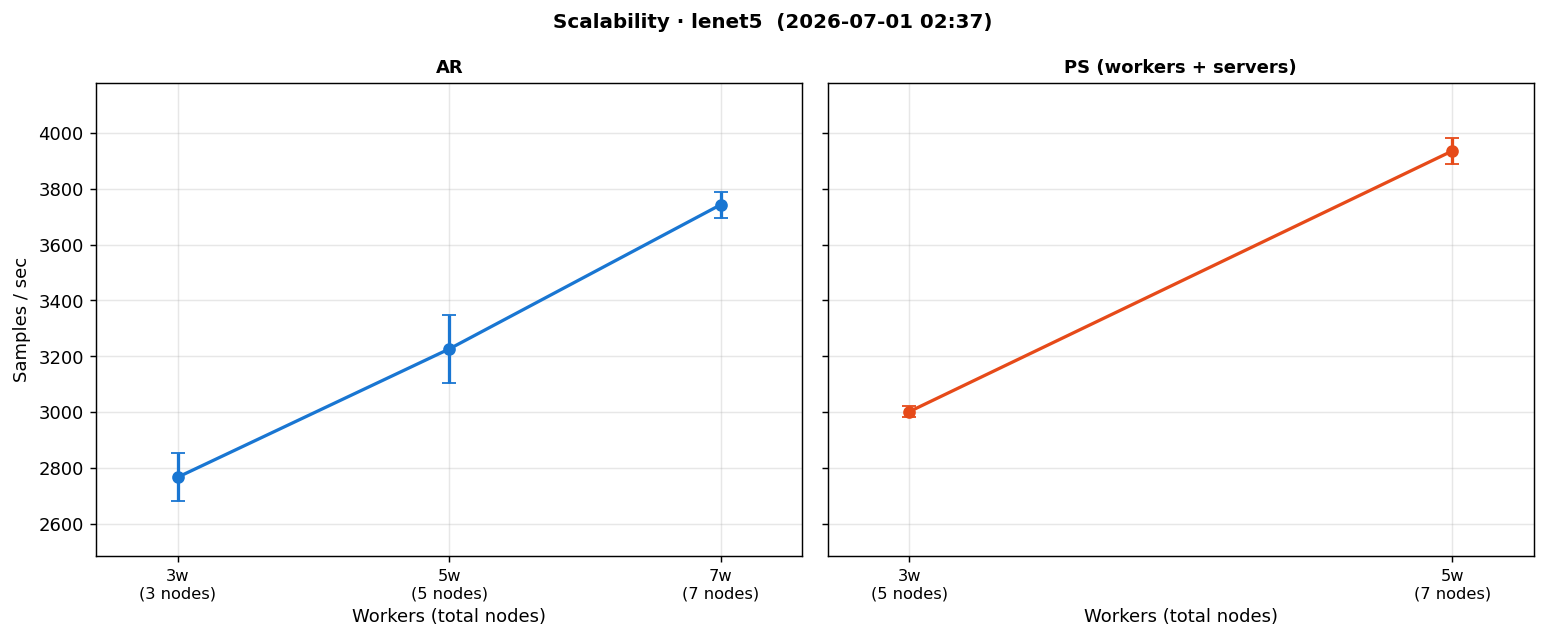
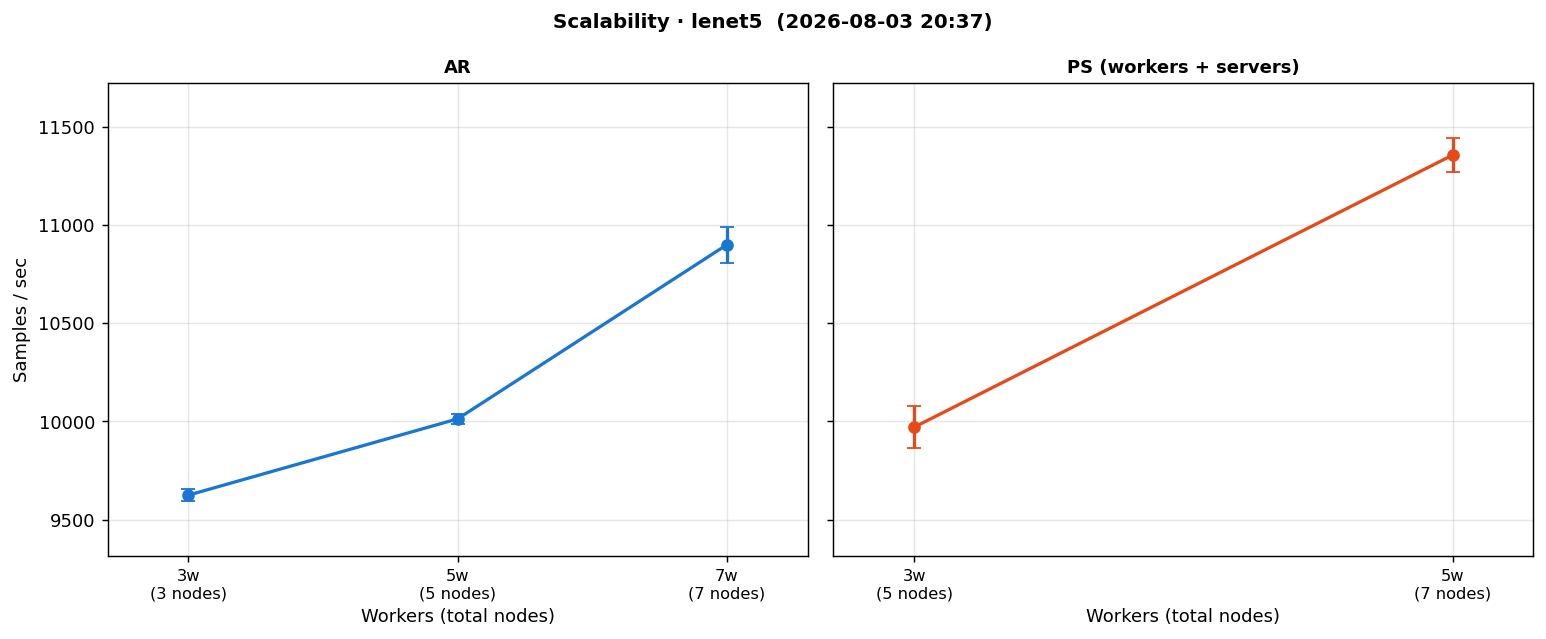
chore: refresh benchmark results and plots with a full campaign

diff --git a/benchmarks/README.md b/benchmarks/README.md
@@ -39,7 +39,7 @@ Partial runs only re-run and re-plot the selected suite/model; every other suite
 
 All-reduce worker scale: [3, 5, 7] (configurable in `issue/suites.py`; the issue suggests 3/7/11 — kept lighter to fit one host).
 
-_Last full run: 5h 38m 58s (2026-07-01 02:37)._
+_Last full run: 2h 37m 36s (2026-08-03 20:37)._
 
 ## Convergence
 
@@ -48,18 +48,18 @@ _Last full run: 5h 38m 58s (2026-07-01 02:37)._
 
 | Model | Strategy | Topology | lr | Batch/wkr | Epochs | Final loss | Accuracy |
 |---|---|---|---|---|---|---|---|
-| lenet5 | AR | 3w | 0.05 | 64 | 56 | 0.00756 | 0.978 |
-| lenet5 | AR | 5w | 0.05 | 64 | 60 | 0.0105 | 0.973 |
+| lenet5 | AR | 3w | 0.05 | 64 | 56 | 0.00755 | 0.978 |
+| lenet5 | AR | 5w | 0.05 | 64 | 60 | 0.0105 | 0.972 |
 | lenet5 | AR | 7w | 0.05 | 64 | 60 | 0.014 | 0.963 |
 | lenet5 | PS (blocking) | 3w/2s | 0.05 | 64 | 60 | 0.00723 | 0.980 |
-| lenet5 | PS (non-block) | 3w/2s | 0.05 | 64 | 60 | 0.00732 | 0.980 |
-| lenet5 | SS (blocking) · no switch | 3w/2s | 0.05 | 64 | 60 | 0.0105 | 0.973 |
+| lenet5 | PS (non-block) | 3w/2s | 0.05 | 64 | 60 | 0.00735 | 0.980 |
+| lenet5 | SS (blocking) · no switch | 3w/2s | 0.05 | 64 | 60 | 0.0105 | 0.972 |
 | lenet5 | PyTorch (ref) | 1w | 0.05 | 64 | 60 | 0.00107 | 0.990 |
 | nielsen | AR | 3w | 0.1 | 10 | 51 | 0.00374 | 0.983 |
 | nielsen | AR | 5w | 0.1 | 10 | 60 | 0.00547 | 0.979 |
 | nielsen | AR | 7w | 0.1 | 10 | 60 | 0.00762 | 0.975 |
 | nielsen | PS (blocking) | 3w/2s | 0.1 | 10 | 60 | 0.00349 | 0.983 |
-| nielsen | PS (non-block) | 3w/2s | 0.1 | 10 | 60 | 0.00373 | 0.982 |
+| nielsen | PS (non-block) | 3w/2s | 0.1 | 10 | 60 | 0.00373 | 0.983 |
 | nielsen | SS (blocking) · no switch | 3w/2s | 0.1 | 10 | 60 | 0.00547 | 0.979 |
 | nielsen | PyTorch (ref) | 1w | 0.1 | 10 | 60 | 0.000222 | 0.989 |
 
@@ -77,12 +77,12 @@ _Last full run: 5h 38m 58s (2026-07-01 02:37)._
 
 | Model | Strategy | Topology | offline | batch | Samples/sec |
 |---|---|---|---|---|---|
-| lenet5 | AR | 3w | 0 | 64 | 2913 ± 144 |
-| lenet5 | AR | 3w | 4 | 64 | 2816 ± 135 |
-| lenet5 | AR | 3w | 0 | 256 | 2728 ± 96 |
-| nielsen | AR | 3w | 0 | 64 | 3536 ± 8 |
-| nielsen | AR | 3w | 4 | 64 | 3559 ± 14 |
-| nielsen | AR | 3w | 0 | 256 | 3432 ± 71 |
+| lenet5 | AR | 3w | 0 | 64 | 9675 ± 87 |
+| lenet5 | AR | 3w | 4 | 64 | 9827 ± 25 |
+| lenet5 | AR | 3w | 0 | 256 | 8928 ± 76 |
+| nielsen | AR | 3w | 0 | 64 | 8353 ± 65 |
+| nielsen | AR | 3w | 4 | 64 | 8527 ± 62 |
+| nielsen | AR | 3w | 0 | 256 | 7721 ± 82 |
 
 ![](plots/execution_speed_nielsen.png)
 ![](plots/execution_speed_lenet5.png)
@@ -94,14 +94,14 @@ _Last full run: 5h 38m 58s (2026-07-01 02:37)._
 
 | Model | Strategy | Topology | Samples/sec | Loss/sec | Accuracy/sec |
 |---|---|---|---|---|---|
-| lenet5 | AR | 5w | 3296 | 0.000296 | 0.00132 |
-| lenet5 | PS (blocking) | 3w/2s | 2906 | 0.000263 | 0.00118 |
-| lenet5 | PS (non-block) | 3w/2s | 2904 | 0.000263 | 0.00118 |
-| lenet5 | SS (blocking) · no switch | 3w/2s | 3425 | 0.000307 | 0.00137 |
-| nielsen | AR | 5w | 4043 | 0.000232 | 0.00164 |
-| nielsen | PS (blocking) | 3w/2s | 3362 | 0.000141 | 0.00137 |
-| nielsen | PS (non-block) | 3w/2s | 3386 | 0.000141 | 0.00138 |
-| nielsen | SS (blocking) · no switch | 3w/2s | 4124 | 0.000237 | 0.00167 |
+| lenet5 | AR | 5w | 10849 | 0.000973 | 0.00434 |
+| lenet5 | PS (blocking) | 3w/2s | 9276 | 0.000841 | 0.00377 |
+| lenet5 | PS (non-block) | 3w/2s | 9485 | 0.000859 | 0.00385 |
+| lenet5 | SS (blocking) · no switch | 3w/2s | 11212 | 0.00101 | 0.00449 |
+| nielsen | AR | 5w | 7818 | 0.000449 | 0.00317 |
+| nielsen | PS (blocking) | 3w/2s | 7396 | 0.00031 | 0.00302 |
+| nielsen | PS (non-block) | 3w/2s | 7433 | 0.000311 | 0.00303 |
+| nielsen | SS (blocking) · no switch | 3w/2s | 8206 | 0.000471 | 0.00333 |
 
 ![](plots/convergence_speed_nielsen.png)
 ![](plots/convergence_speed_lenet5.png)
@@ -113,16 +113,16 @@ _Last full run: 5h 38m 58s (2026-07-01 02:37)._
 
 | Model | Strategy | Workers | Nodes | Samples/sec |
 |---|---|---|---|---|
-| lenet5 | AR | 3 | 3 | 2767 ± 86 |
-| lenet5 | AR | 5 | 5 | 3226 ± 120 |
-| lenet5 | AR | 7 | 7 | 3742 ± 46 |
-| lenet5 | PS (blocking) | 3 | 5 | 3002 ± 19 |
-| lenet5 | PS (blocking) | 5 | 7 | 3935 ± 47 |
-| nielsen | AR | 3 | 3 | 3601 ± 86 |
-| nielsen | AR | 5 | 5 | 4063 ± 10 |
-| nielsen | AR | 7 | 7 | 4629 ± 8 |
-| nielsen | PS (blocking) | 3 | 5 | 3910 ± 37 |
-| nielsen | PS (blocking) | 5 | 7 | 4979 ± 11 |
+| lenet5 | AR | 3 | 3 | 9624 ± 31 |
+| lenet5 | AR | 5 | 5 | 10012 ± 24 |
+| lenet5 | AR | 7 | 7 | 10899 ± 93 |
+| lenet5 | PS (blocking) | 3 | 5 | 9970 ± 107 |
+| lenet5 | PS (blocking) | 5 | 7 | 11356 ± 88 |
+| nielsen | AR | 3 | 3 | 8296 ± 30 |
+| nielsen | AR | 5 | 5 | 8404 ± 41 |
+| nielsen | AR | 7 | 7 | 8605 ± 101 |
+| nielsen | PS (blocking) | 3 | 5 | 8227 ± 318 |
+| nielsen | PS (blocking) | 5 | 7 | 8920 ± 141 |
 
 ![](plots/scalability_nielsen.png)
 ![](plots/scalability_lenet5.png)
